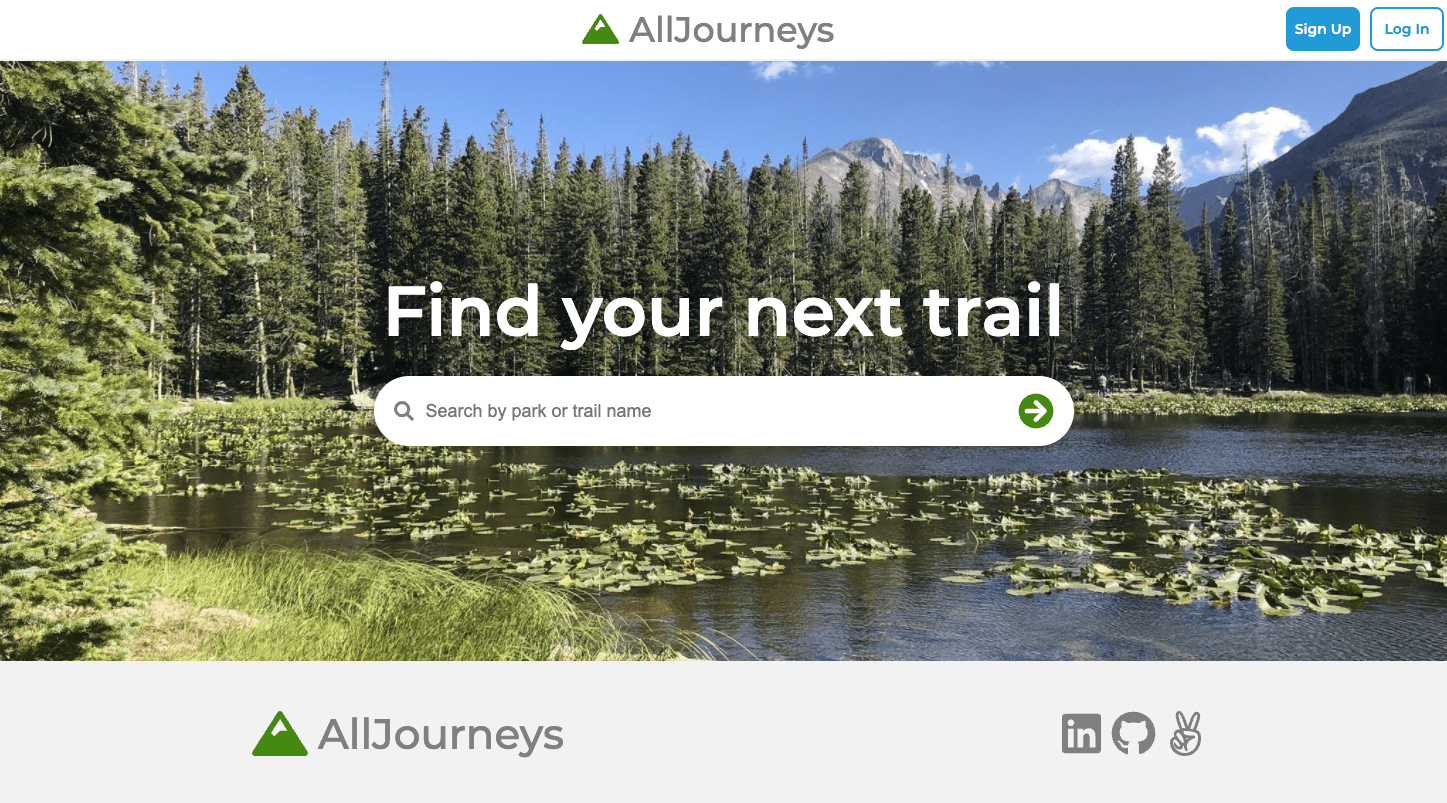
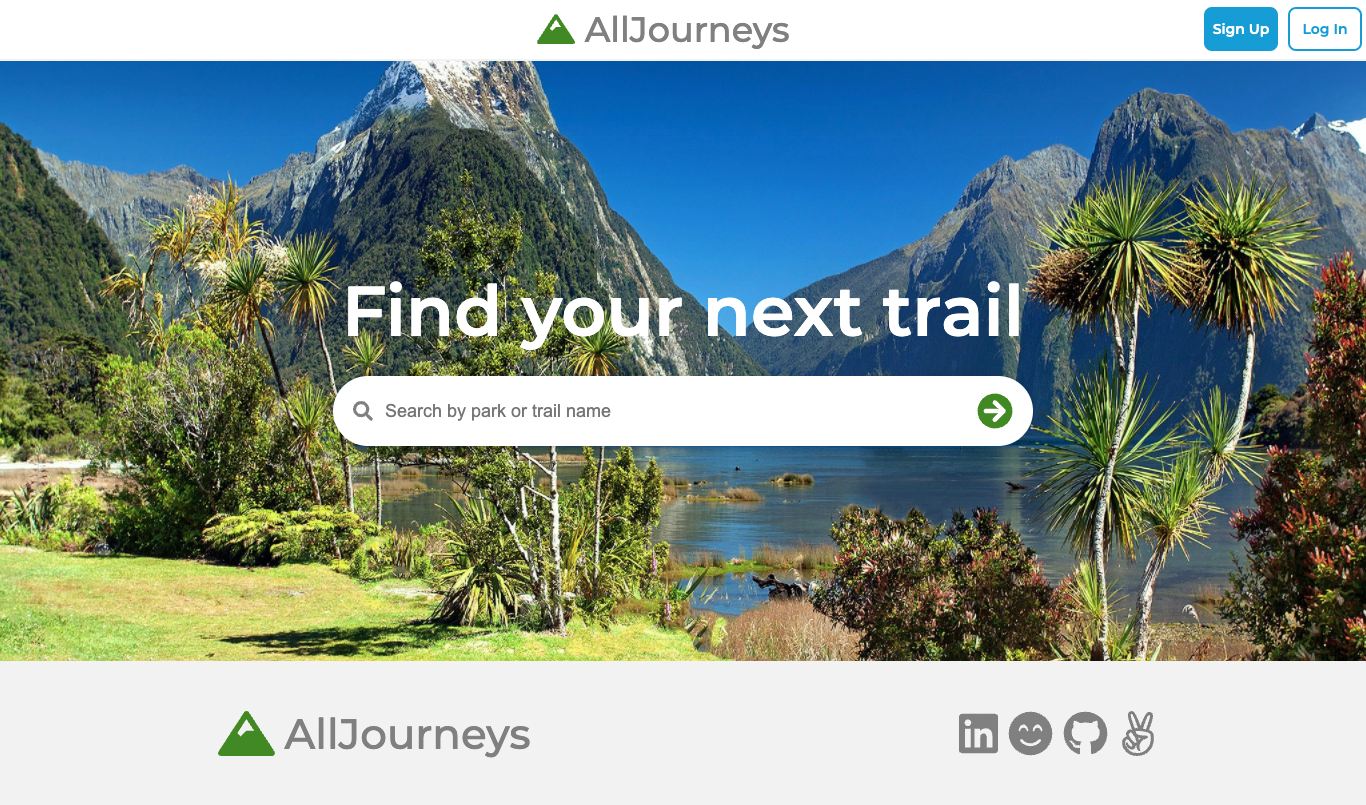
new homepage picture

diff --git a/app/assets/stylesheets/homepage.scss b/app/assets/stylesheets/homepage.scss
@@ -15,7 +15,7 @@ $base-gray: #808080;
   position: relative;
   height: 600px;
   width: 100%;
-  background-image: url("homepage.png");
+  background-image: url("homepage2.jpg");
   background-size: cover;
   background-position: 50% 50%;
 }
